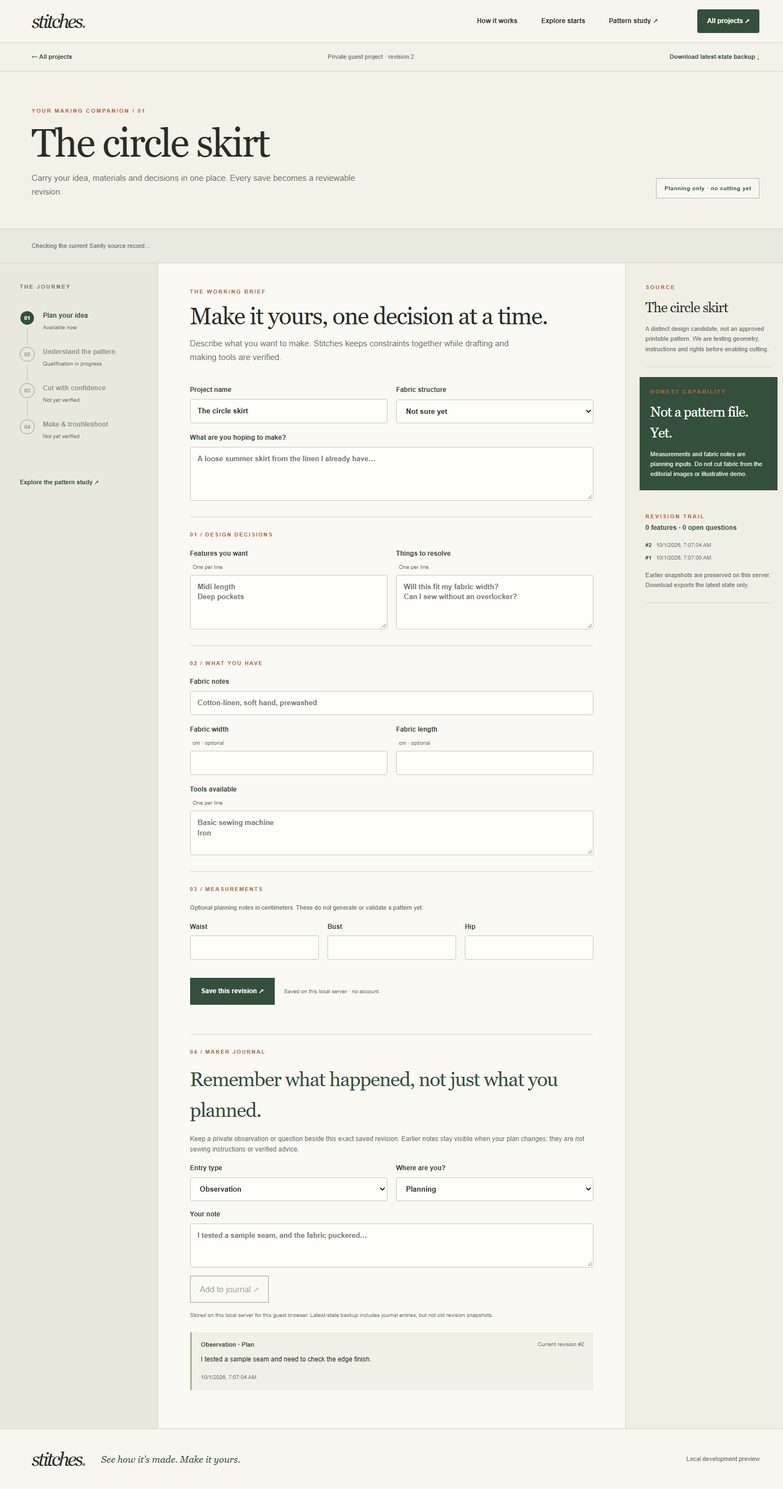
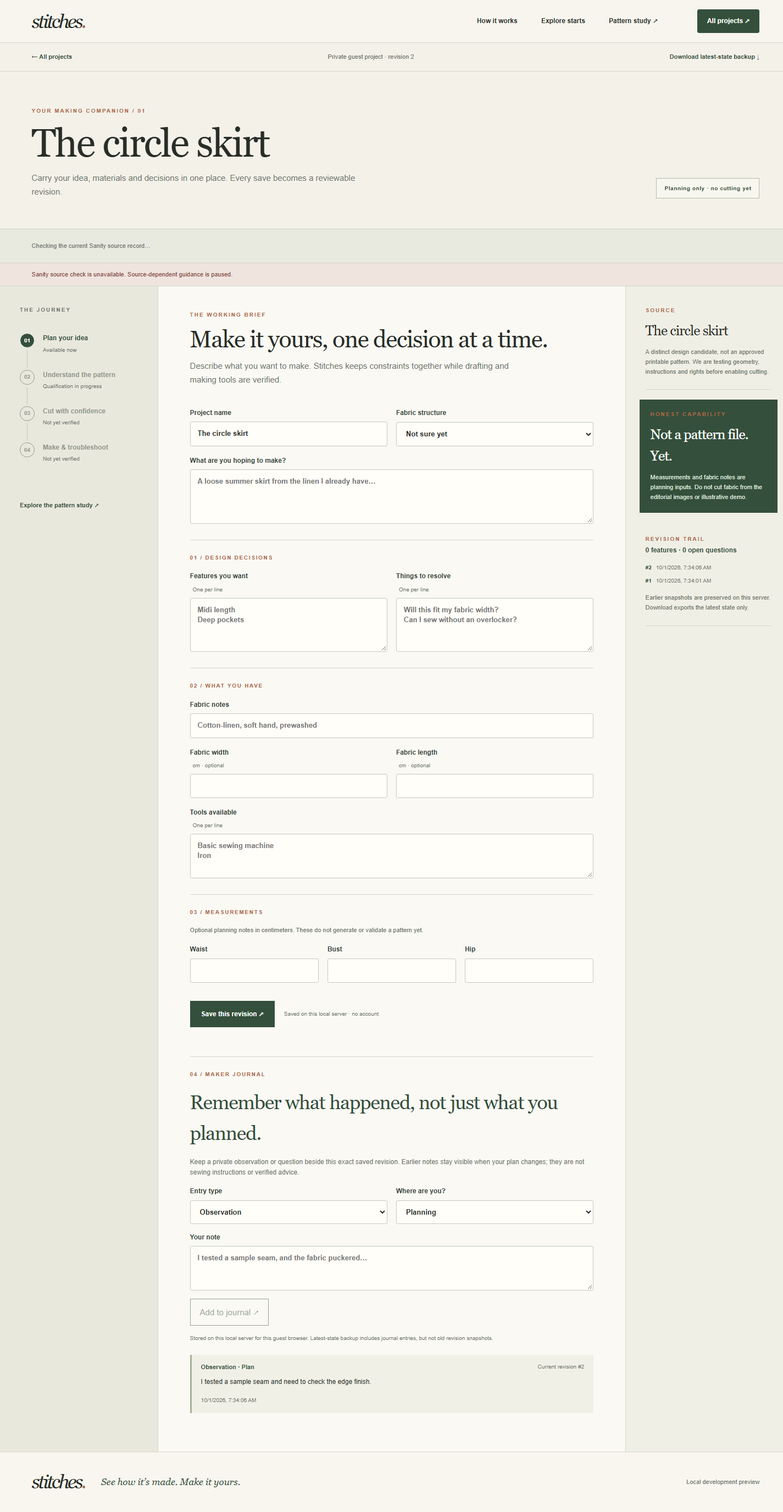
Bind guest projects to Sanity source revisions

diff --git a/src/components/studio/CompanionHome.tsx b/src/components/studio/CompanionHome.tsx
@@ -122,6 +122,7 @@ export function CompanionHome() {
   function downloadBackup() {
     if (!active) return;
     const backup = projectBackupSchema.parse({ format: "stitches-project-backup", version: 2, title: active.title, brief: active.brief, source: active.source, plan: active.plan,
+      knowledgeFingerprint: active.knowledgeFingerprint,
       notes: notes.map(({ kind, stage, text, basisSequence, basisHash, createdAt, importedFromSequence }) => ({
         kind, stage, text, basisSequence: importedFromSequence ?? basisSequence, basisHash, createdAt,
       })) });
@@ -160,15 +161,34 @@ export function CompanionHome() {
     finally { setBusy(false); }
   }
 
+  async function refreshSource() {
+    if (!active || active.source.kind !== "candidate" || !draft || busy || JSON.stringify(draft) !== JSON.stringify(draftFor(active))) return;
+    setBusy(true); setError(""); setNotice("");
+    try {
+      const data = await json(await fetch(`/api/projects/${active.id}/knowledge`, {
+        method: "POST", headers: { "Content-Type": "application/json" },
+        body: JSON.stringify({ expectedSequence: active.sequence, expectedBasisHash: active.basisHash, idempotencyKey: crypto.randomUUID() }),
+      }));
+      setActive(data.project); setDraft(draftFor(data.project));
+      if (data.project.sequence !== active.sequence) setRevisions((current) => [...current, data.project]);
+      setProjects((current) => current.map((item) => item.id === data.project.id ? data.project : item));
+      setNotice(`Source binding saved in revision ${data.project.sequence}. Earlier notes remain tied to their original basis.`);
+    } catch (cause) { setError(cause instanceof Error ? cause.message : "Could not refresh source."); }
+    finally { setBusy(false); }
+  }
+
   const unsavedChanges = !!(active && draft && JSON.stringify(draft) !== JSON.stringify(draftFor(active)));
   const sourceDesignId = active?.source.kind === "candidate" ? active.source.designId : null;
   const sourceCard = sourceDesignId ? catalog.find((item) => item.designKey === sourceDesignId) : undefined;
+  const sourceBinding = !sourceDesignId ? null : !sourceCard ? "unavailable" : !active?.knowledgeFingerprint ? "unbound" :
+    active.knowledgeFingerprint === sourceCard.fingerprint ? "current" : "stale";
   return <div className="companion-app">
     <header className="companion-nav"><a href="/" className="companion-logo" aria-label="Stitches home">stitches<span>.</span></a><nav aria-label="Main navigation"><a href="/#how-it-works">How it works</a><a href="/#collection">Explore starts</a><a href="/demo">Pattern study ↗</a></nav><button type="button" onClick={() => active ? back() : document.getElementById("collection")?.scrollIntoView({ behavior: "smooth" })} className="nav-action">{active ? "All projects" : "Start making"} ↗</button></header>
     {active && draft ? <main className="companion-project">
       <div className="project-topline"><button type="button" onClick={back}>← All projects</button><span>Private guest project · revision {active.sequence}</span><button type="button" onClick={downloadBackup}>Download latest-state backup ↓</button></div>
       <div className="project-head"><div><p className="companion-kicker">YOUR MAKING COMPANION / 01</p><h1>{active.title}</h1><p>Carry your idea, materials and decisions in one place. Every save becomes a reviewable revision.</p></div><span className="capability-chip">Planning only · no cutting yet</span></div>
-      {active.source.kind === "candidate" && <section className="project-source-strip" aria-label="Current source research">{sourceCard ? <><p className="companion-kicker">LIVE SANITY CONTENT LAKE · PLANNING SOURCE</p><strong>{sourceCard.title}</strong><p>{sourceCard.cuttingCaveat}</p><span>{sourceCard.materialStructure} · {sourceCard.requiredMeasurements.length} source-listed measurements · {sourceCard.reviewStatus} review · plan only</span><a href={sourceCard.sourceUrl} target="_blank" rel="noreferrer">Read {sourceCard.sourceTitle} ↗</a></> : <p role="status">{catalogState === "loading" ? "Checking the current Sanity source record…" : "Current Sanity source details are unavailable. Your private plan is still saved, but do not use this card to cut."}</p>}</section>}
+      {active.source.kind === "candidate" && <section className="project-source-strip" aria-label="Current source research">{sourceCard ? <><p className="companion-kicker">LIVE SANITY CONTENT LAKE · PLANNING SOURCE</p><strong>{sourceCard.title}</strong><p>{sourceBinding === "stale" ? "This source record changed after your saved project basis. Review and refresh it before using the new planning facts." : sourceCard.cuttingCaveat}</p><span>{sourceCard.materialStructure} · {sourceCard.requiredMeasurements.length} source-listed measurements · {sourceCard.reviewStatus} review · plan only</span><a href={sourceCard.sourceUrl} target="_blank" rel="noreferrer">Read {sourceCard.sourceTitle} ↗</a></> : <p role="status">{catalogState === "loading" ? "Checking the current Sanity source record…" : "Current Sanity source details are unavailable. Your private plan is still saved, but do not use this card to cut."}</p>}</section>}
+      {sourceBinding && <div className={`source-binding ${sourceBinding}`} role="status"><span>{sourceBinding === "current" ? "This plan is bound to the current Sanity source revision. It is still planning-only." : sourceBinding === "stale" ? "Source changed since this project revision. Source-dependent advice is stale; earlier maker notes are preserved." : sourceBinding === "unbound" ? "This project has no saved Sanity source binding yet. Review the current source before attaching it." : "Sanity source check is unavailable. Source-dependent guidance is paused."}</span>{(sourceBinding === "stale" || sourceBinding === "unbound") && <button type="button" disabled={busy || unsavedChanges} onClick={refreshSource}>Review & bind current source ↗</button>}{unsavedChanges && sourceBinding !== "current" && <small>Save plan edits first.</small>}</div>}
       <div className="project-workspace"><aside className="project-rail" aria-label="Project stages"><p className="rail-caption">THE JOURNEY</p><ol><li className="current"><b>01</b><span>Plan your idea<small>Available now</small></span></li><li><b>02</b><span>Understand the pattern<small>Qualification in progress</small></span></li><li><b>03</b><span>Cut with confidence<small>Not yet verified</small></span></li><li><b>04</b><span>Make & troubleshoot<small>Not yet verified</small></span></li></ol><a href="/demo">Explore the pattern study ↗</a></aside>
         <form className="project-form" onSubmit={save}><div className="form-intro"><p className="companion-kicker">THE WORKING BRIEF</p><h2>Make it yours, one decision at a time.</h2><p>Describe what you want to make. Stitches keeps constraints together while drafting and making tools are verified.</p></div>
           <div className="field-row"><label>Project name<input value={draft.title} maxLength={100} required onChange={(event) => update("title", event.target.value)} /></label><label>Fabric structure<select value={draft.structure} onChange={(event) => update("structure", event.target.value)}><option value="unknown">Not sure yet</option><option value="woven">Woven</option><option value="knit">Knit / stretch</option></select></label></div>

diff --git a/src/server/projects/guest-store.ts b/src/server/projects/guest-store.ts
@@ -8,16 +8,18 @@ import {
   importGuestProjectSchema,
   projectPlanSchema,
   recordProjectNoteSchema,
+  rebaseGuestKnowledgeSchema,
   updateGuestProjectSchema,
   type CreateGuestProjectInput,
   type GuestProject,
   type ImportGuestProjectInput,
   type ProjectNote,
   type RecordProjectNoteInput,
+  type RebaseGuestKnowledgeInput,
   type UpdateGuestProjectInput,
 } from "../../domain/guest-project";
 
-export type GuestStoreErrorCode = "not_found" | "stale" | "idempotency_conflict";
+export type GuestStoreErrorCode = "not_found" | "stale" | "idempotency_conflict" | "invalid";
 
 export class GuestStoreError extends Error {
   constructor(public readonly code: GuestStoreErrorCode, message: string) { super(message); }
@@ -177,8 +179,11 @@ export class GuestStore {
     });
   }
 
-  createProject(ownerId: string, rawInput: CreateGuestProjectInput): GuestProject {
+  createProject(ownerId: string, rawInput: CreateGuestProjectInput, trustedKnowledgeFingerprint: string | null = null): GuestProject {
     const input = createGuestProjectSchema.parse(rawInput);
+    if (input.source.kind === "own_idea" && trustedKnowledgeFingerprint !== null)
+      throw new GuestStoreError("invalid", "A personal idea cannot claim a catalog knowledge binding.");
+    if (trustedKnowledgeFingerprint !== null && !/^[a-f0-9]{64}$/.test(trustedKnowledgeFingerprint)) throw new GuestStoreError("invalid", "Invalid knowledge fingerprint.");
     const requestHash = hash(input);
     return this.transaction(() => {
       const duplicate = this.receipt(ownerId, input.idempotencyKey, "create", requestHash);
@@ -187,7 +192,7 @@ export class GuestStore {
       const base = {
         id: randomUUID(), title: input.title, brief: input.brief, source: input.source,
         plan: input.plan ?? emptyProjectPlan(), capability: "plan_only" as const, sequence: 1,
-        knowledgeFingerprint: null, createdAt: now, updatedAt: now,
+        knowledgeFingerprint: trustedKnowledgeFingerprint, createdAt: now, updatedAt: now,
       };
       const project: GuestProject = { ...base, basisHash: projectBasisHash(base) };
       const json = JSON.stringify(project);
@@ -203,6 +208,8 @@ export class GuestStore {
 
   importBackup(ownerId: string, rawInput: ImportGuestProjectInput): GuestProject {
     const input = importGuestProjectSchema.parse(rawInput);
+    if (input.backup.source.kind === "own_idea" && input.backup.version === 2 && input.backup.knowledgeFingerprint)
+      throw new GuestStoreError("invalid", "A personal idea cannot claim a catalog knowledge binding.");
     const requestHash = hash(input);
     return this.transaction(() => {
       const duplicate = this.receipt(ownerId, input.idempotencyKey, "import", requestHash);
@@ -211,7 +218,8 @@ export class GuestStore {
       const base = {
         id: randomUUID(), title: input.backup.title, brief: input.backup.brief, source: input.backup.source,
         plan: input.backup.plan, capability: "plan_only" as const, sequence: 1,
-        knowledgeFingerprint: null, createdAt: now, updatedAt: now,
+        knowledgeFingerprint: input.backup.version === 2 ? input.backup.knowledgeFingerprint ?? null : null,
+        createdAt: now, updatedAt: now,
       };
       const project: GuestProject = { ...base, basisHash: projectBasisHash(base) };
       const json = JSON.stringify(project);
@@ -266,6 +274,36 @@ export class GuestStore {
       this.db.prepare("INSERT INTO mutation_receipts (owner_id, idempotency_key, operation, target_id, request_hash, result_json) VALUES (?, ?, ?, ?, ?, ?)")
         .run(ownerId, input.idempotencyKey, "update", id, requestHash, json);
       return next;
+    });
+  }
+
+  rebaseKnowledge(ownerId: string, id: string, rawInput: RebaseGuestKnowledgeInput, trustedFingerprint: string): GuestProject {
+    const input = rebaseGuestKnowledgeSchema.parse(rawInput);
+    if (!/^[a-f0-9]{64}$/.test(trustedFingerprint)) throw new GuestStoreError("invalid", "Invalid knowledge fingerprint.");
+    const requestHash = hash({ id, input });
+    return this.transaction(() => {
+      const duplicate = this.receipt(ownerId, input.idempotencyKey, "knowledge-rebase", requestHash, id);
+      if (duplicate) return duplicate;
+      const current = this.getProject(ownerId, id);
+      if (!current) throw new GuestStoreError("not_found", "Project not found.");
+      if (current.source.kind !== "candidate") throw new GuestStoreError("invalid", "This project has no linked candidate source.");
+      if (current.sequence !== input.expectedSequence || current.basisHash !== input.expectedBasisHash)
+        throw new GuestStoreError("stale", "The project changed. Reload and review before refreshing its source.");
+      const next = current.knowledgeFingerprint === trustedFingerprint ? current : {
+        ...current, sequence: current.sequence + 1, knowledgeFingerprint: trustedFingerprint,
+        updatedAt: new Date().toISOString(),
+      };
+      const project: GuestProject = next === current ? current : { ...next, basisHash: projectBasisHash(next) };
+      const json = JSON.stringify(project);
+      if (project !== current) {
+        this.db.prepare("UPDATE projects SET sequence = ?, data_json = ?, updated_at = ? WHERE owner_id = ? AND id = ?")
+          .run(project.sequence, json, project.updatedAt, ownerId, id);
+        this.db.prepare("INSERT INTO project_revisions (owner_id, project_id, sequence, basis_hash, snapshot_json) VALUES (?, ?, ?, ?, ?)")
+          .run(ownerId, id, project.sequence, project.basisHash, json);
+      }
+      this.db.prepare("INSERT INTO mutation_receipts (owner_id, idempotency_key, operation, target_id, request_hash, result_json) VALUES (?, ?, ?, ?, ?, ?)")
+        .run(ownerId, input.idempotencyKey, "knowledge-rebase", id, requestHash, json);
+      return project;
     });
   }
 }

diff --git a/src/server/projects/guest-store.test.ts b/src/server/projects/guest-store.test.ts
@@ -123,7 +123,7 @@ describe("private guest projects", () => {
     try {
       const owner = resolveGuestIdentity().ownerId;
       const stranger = resolveGuestIdentity().ownerId;
-      const original = store.createProject(owner, create());
+      const original = store.createProject(owner, { ...create(), source: { kind: "candidate", designId: "tina" } }, "a".repeat(64));
       const early = store.recordNote(owner, original.id, { kind: "journal", stage: "prepare", text: "Sample seam finished.",
         expectedProjectSequence: 1, expectedBasisHash: original.basisHash, idempotencyKey: randomUUID() });
       const revised = store.updateProject(owner, original.id, { title: "My revised idea", expectedSequence: 1,
@@ -132,6 +132,7 @@ describe("private guest projects", () => {
         expectedProjectSequence: 2, expectedBasisHash: revised.basisHash, idempotencyKey: randomUUID() });
       const backup = projectBackupSchema.parse({ format: "stitches-project-backup", version: 2,
         title: revised.title, brief: revised.brief, source: revised.source, plan: revised.plan,
+        knowledgeFingerprint: revised.knowledgeFingerprint,
         notes: [early, current].map(({ kind, stage, text, basisSequence, basisHash, createdAt }) => ({ kind, stage, text, basisSequence, basisHash, createdAt })) });
       if (backup.version !== 2) throw new Error("Expected a v2 backup.");
       const request = { backup, idempotencyKey: randomUUID() };
@@ -139,6 +140,7 @@ describe("private guest projects", () => {
       expect(store.importBackup(owner, request)).toEqual(imported);
       expect(imported.id).not.toBe(original.id);
       expect(imported.sequence).toBe(1);
+      expect(imported.knowledgeFingerprint).toBe(revised.knowledgeFingerprint);
       const notes = store.listNotes(owner, imported.id);
       expect(notes.map((note) => note.importedFromSequence)).toEqual([1, 2]);
       expect(notes[0].basisHash).not.toBe(imported.basisHash);
@@ -175,6 +177,36 @@ describe("private guest projects", () => {
         .toThrowError(/changed/);
       expect(() => store.recordNote(owner, project.id, { ...request, text: " ", idempotencyKey: randomUUID(),
         expectedProjectSequence: changed.sequence, expectedBasisHash: changed.basisHash })).toThrow();
+    } finally { store.close(); }
+  });
+
+  it("pins source knowledge, rebases only with the saved basis, and leaves old observations stale", () => {
+    const store = new GuestStore(":memory:");
+    try {
+      const owner = resolveGuestIdentity().ownerId;
+      const other = resolveGuestIdentity().ownerId;
+      const firstFingerprint = "a".repeat(64);
+      const nextFingerprint = "b".repeat(64);
+      const createInput = { ...create(), source: { kind: "candidate" as const, designId: "sandy" as const } };
+      const first = store.createProject(owner, createInput, firstFingerprint);
+      expect(store.createProject(owner, createInput, "c".repeat(64))).toEqual(first);
+      expect(first.knowledgeFingerprint).toBe(firstFingerprint);
+      const note = store.recordNote(owner, first.id, { kind: "question", stage: "plan", text: "Which version is this?",
+        expectedProjectSequence: 1, expectedBasisHash: first.basisHash, idempotencyKey: randomUUID() });
+      const request = { expectedSequence: first.sequence, expectedBasisHash: first.basisHash, idempotencyKey: randomUUID() };
+      const second = store.rebaseKnowledge(owner, first.id, request, nextFingerprint);
+      expect(second.sequence).toBe(2);
+      expect(second.knowledgeFingerprint).toBe(nextFingerprint);
+      expect(second.basisHash).not.toBe(first.basisHash);
+      expect(store.listNotes(owner, first.id)[0]).toEqual(note);
+      expect(note.basisHash).not.toBe(second.basisHash);
+      expect(store.rebaseKnowledge(owner, first.id, request, nextFingerprint)).toEqual(second);
+      expect(store.rebaseKnowledge(owner, first.id, request, "c".repeat(64))).toEqual(second);
+      expect(() => store.rebaseKnowledge(owner, first.id, { ...request, idempotencyKey: randomUUID() }, firstFingerprint))
+        .toThrowError(/changed/);
+      expect(() => store.rebaseKnowledge(other, first.id, { ...request, idempotencyKey: randomUUID() }, nextFingerprint))
+        .toThrowError(/not found/);
+      expect(store.listRevisions(owner, first.id)).toHaveLength(2);
     } finally { store.close(); }
   });
 });

diff --git a/src/app/companion.css b/src/app/companion.css
@@ -35,3 +35,4 @@
 .catalog-evidence{max-width:1640px;margin:auto;padding:76px clamp(22px,4vw,66px);background:#e8e9df;border-top:1px solid var(--hair);display:grid;grid-template-columns:minmax(220px,.8fr) minmax(0,2fr);gap:clamp(28px,6vw,95px)}.catalog-evidence h2{font-size:clamp(35px,4vw,58px);margin:14px 0}.catalog-evidence>div:first-child>p:last-child{color:var(--muted);line-height:1.6;font-size:13px;max-width:390px}.catalog-evidence-grid{display:grid;grid-template-columns:repeat(2,minmax(0,1fr));gap:18px}.catalog-evidence-grid article{padding:25px;background:#f8f7f1;border:1px solid #d7d8cd;min-width:0}.catalog-evidence-grid article>span{color:var(--rust);text-transform:uppercase;letter-spacing:.12em;font-size:10px;font-weight:700}.catalog-evidence-grid h3{font-size:29px;margin:15px 0}.catalog-evidence-grid p{font-size:12px;line-height:1.65;color:var(--muted)}.catalog-evidence-grid small{display:block;font-size:10px;color:var(--muted);margin:16px 0}.catalog-evidence-grid a{font-size:11px;font-weight:700;color:var(--pine);text-decoration:underline;text-underline-offset:4px}.catalog-unavailable{align-self:center;padding:24px;border-left:3px solid var(--rust);background:#f8f7f1;font-size:13px;line-height:1.6}.project-source-strip{padding:22px clamp(22px,4vw,66px);background:#e8e9df;border-top:1px solid var(--hair);display:grid;grid-template-columns:minmax(150px,1fr) minmax(210px,2fr) minmax(220px,3fr) auto;gap:15px 25px;align-items:center}.project-source-strip .companion-kicker{grid-column:1/-1;margin:0}.project-source-strip strong{font-family:Georgia,'Times New Roman',serif;font-size:22px;font-weight:400}.project-source-strip p:not(.companion-kicker){color:var(--muted);font-size:11px;line-height:1.55;margin:0}.project-source-strip span{color:var(--pine);font-size:10px;font-weight:700;line-height:1.5}.project-source-strip a{color:var(--pine);font-size:11px;font-weight:700;text-decoration:underline;text-underline-offset:4px}.project-source-strip>p[role=status]{grid-column:1/-1}
 @media(max-width:900px){.catalog-evidence{grid-template-columns:1fr}.project-source-strip{grid-template-columns:repeat(2,minmax(0,1fr))}.project-source-strip p:not(.companion-kicker){grid-column:1/-1}}
 @media(max-width:600px){.catalog-evidence{padding:48px 22px}.catalog-evidence-grid{grid-template-columns:1fr}.project-source-strip{grid-template-columns:1fr}.project-source-strip p:not(.companion-kicker){grid-column:auto}}
+.source-binding{padding:12px clamp(22px,4vw,66px);display:flex;align-items:center;gap:14px;flex-wrap:wrap;font-size:11px;line-height:1.5;border-top:1px solid #d0d4c7}.source-binding.current{background:#e6eee3;color:#2b5035}.source-binding.stale,.source-binding.unbound{background:#f4e9d9;color:#74512f}.source-binding.unavailable{background:#f0e4df;color:#7f4538}.source-binding span{flex:1 1 260px}.source-binding button{border:1px solid currentColor;background:transparent;color:inherit;padding:8px 12px;font-size:10px;font-weight:700}.source-binding button:disabled{opacity:.5;cursor:not-allowed}.source-binding small{font-size:10px}

diff --git a/src/domain/guest-project.ts b/src/domain/guest-project.ts
@@ -46,7 +46,8 @@ const backupNoteSchema = z.object({
 }).strict();
 export const projectBackupSchema = z.discriminatedUnion("version", [
   projectBackupBaseSchema.extend({ version: z.literal(1) }).strict(),
-  projectBackupBaseSchema.extend({ version: z.literal(2), notes: z.array(backupNoteSchema).max(2000) }).strict(),
+  projectBackupBaseSchema.extend({ version: z.literal(2), notes: z.array(backupNoteSchema).max(2000),
+    knowledgeFingerprint: z.string().regex(/^[a-f0-9]{64}$/).nullable().optional() }).strict(),
 ]);
 export const importGuestProjectSchema = z.object({
   backup: projectBackupSchema,
@@ -58,6 +59,12 @@ export const recordProjectNoteSchema = z.object({
   stage: z.enum(["plan", "prepare", "make", "check"]),
   text: z.string().trim().min(1).max(1000),
   expectedProjectSequence: z.number().int().min(1),
+  expectedBasisHash: z.string().regex(/^[a-f0-9]{64}$/),
+  idempotencyKey: z.string().uuid(),
+}).strict();
+
+export const rebaseGuestKnowledgeSchema = z.object({
+  expectedSequence: z.number().int().min(1),
   expectedBasisHash: z.string().regex(/^[a-f0-9]{64}$/),
   idempotencyKey: z.string().uuid(),
 }).strict();
@@ -78,6 +85,7 @@ export type CreateGuestProjectInput = z.infer<typeof createGuestProjectSchema>;
 export type UpdateGuestProjectInput = z.infer<typeof updateGuestProjectSchema>;
 export type RecordProjectNoteInput = z.infer<typeof recordProjectNoteSchema>;
 export type ImportGuestProjectInput = z.infer<typeof importGuestProjectSchema>;
+export type RebaseGuestKnowledgeInput = z.infer<typeof rebaseGuestKnowledgeSchema>;
 
 export interface ProjectNote {
   id: string;
@@ -100,7 +108,7 @@ export interface GuestProject {
   capability: "plan_only";
   sequence: number;
   basisHash: string;
-  knowledgeFingerprint: null;
+  knowledgeFingerprint: string | null;
   createdAt: string;
   updatedAt: string;
 }

diff --git a/src/app/api/projects/[id]/knowledge/route.ts b/src/app/api/projects/[id]/knowledge/route.ts
@@ -1,0 +1,27 @@
+import { NextRequest, NextResponse } from "next/server";
+import { rebaseGuestKnowledgeSchema } from "@/domain/guest-project";
+import { createCompanionCatalogClient, loadCompanionCatalog } from "@/server/knowledge/companion-catalog";
+import { GuestStoreError, getLocalGuestStore } from "@/server/projects/guest-store";
+import { assertSameOriginJson, guestErrorResponse, guestForRequest, guestResponse } from "@/server/projects/guest-http";
+
+export const runtime = "nodejs";
+export const dynamic = "force-dynamic";
+
+export async function POST(request: NextRequest, context: { params: Promise<{ id: string }> }) {
+  try {
+    assertSameOriginJson(request);
+    const identity = guestForRequest(request);
+    const { id } = await context.params;
+    const input = rebaseGuestKnowledgeSchema.parse(await request.json());
+    const store = getLocalGuestStore();
+    const current = store.getProject(identity.ownerId, id);
+    if (!current) throw new GuestStoreError("not_found", "Project not found.");
+    if (current.source.kind !== "candidate") throw new GuestStoreError("invalid", "This project has no linked candidate source.");
+    const designId = current.source.designId;
+    const cards = await loadCompanionCatalog(createCompanionCatalogClient());
+    const fingerprint = cards.find((item) => item.designKey === designId)?.fingerprint;
+    if (!fingerprint) return NextResponse.json({ error: "source_unavailable", message: "The source record is unavailable; no project change was made." }, { status: 503 });
+    const project = store.rebaseKnowledge(identity.ownerId, id, input, fingerprint);
+    return guestResponse(request, identity, { project });
+  } catch (error) { return guestErrorResponse(error); }
+}

diff --git a/src/app/api/projects/route.ts b/src/app/api/projects/route.ts
@@ -1,5 +1,7 @@
 import { NextRequest, NextResponse } from "next/server";
 import { getLocalGuestStore } from "@/server/projects/guest-store";
+import { createGuestProjectSchema } from "@/domain/guest-project";
+import { createCompanionCatalogClient, loadCompanionCatalog } from "@/server/knowledge/companion-catalog";
 import { assertSameOriginJson, guestErrorResponse, guestForRequest, guestResponse } from "@/server/projects/guest-http";
 
 export const runtime = "nodejs";
@@ -18,7 +20,16 @@ export async function POST(request: NextRequest) {
   try {
     assertSameOriginJson(request);
     const identity = guestForRequest(request);
-    const project = getLocalGuestStore().createProject(identity.ownerId, await request.json());
+    const input = createGuestProjectSchema.parse(await request.json());
+    let fingerprint: string | null = null;
+    if (input.source.kind === "candidate") {
+      const designId = input.source.designId;
+      try {
+        const cards = await loadCompanionCatalog(createCompanionCatalogClient());
+        fingerprint = cards.find((item) => item.designKey === designId)?.fingerprint ?? null;
+      } catch { /* A planning-only project may start unbound; source advice stays unavailable. */ }
+    }
+    const project = getLocalGuestStore().createProject(identity.ownerId, input, fingerprint);
     return guestResponse(request, identity, { project }, 201);
   } catch (error) {
     return guestErrorResponse(error);

diff --git a/src/server/projects/guest-http.ts b/src/server/projects/guest-http.ts
@@ -35,7 +35,7 @@ export function guestErrorResponse(error: unknown): NextResponse {
     return NextResponse.json({ error: "invalid_input", message: "Review the project fields and try again." }, { status: 400 });
   }
   if (error instanceof GuestStoreError) {
-    const status = error.code === "not_found" ? 404 : 409;
+    const status = error.code === "not_found" ? 404 : error.code === "invalid" ? 400 : 409;
     return NextResponse.json({ error: error.code, message: error.message }, { status });
   }
   console.error("Guest project request failed", error);

diff --git a/docs/STATUS.md b/docs/STATUS.md
@@ -4,13 +4,15 @@ Updated: October 1, 2026.
 
 ## Active W03 source-linked planning catalog — October 1, 2026
 
+- Follow-on source-binding slice: new candidate projects receive the exact Content Lake card fingerprint when available; guest backups preserve it; stale/unbound projects show an explicit state and require a basis-checked, idempotent source rebase. The rebase is a new immutable project revision and leaves prior journal entries attached to their old basis. If Sanity is unavailable, a plan-only project can still start unbound; no source-dependent advice is authorized. An initial test incorrectly expected an old note to match a changed knowledge fingerprint and was corrected. A route review then caught and fixed an eager stale check that would have defeated idempotent replay. Final full deterministic suite passed **58/58** with one opt-in live test skipped (195s on this Windows run); `tsc --noEmit` and the corrected Webpack production build exited 0.
+- Built API rehearsal passed candidate create with current fingerprint (201), import of a deliberately old fingerprint (201), explicit rebase/replay (200), stale new request (409), cross-guest denial (404), plus the prior guest/journal/backup checks. The final Chrome run observed the stale warning, clicked review/rebind, and observed revision 2 current binding; five widths passed with no overflow/broken images/runtime errors. Seven actual captures include desktop stale and recovered states plus phone; the before/after and phone images were visually inspected. Reports are `evidence/guest-api-verification.json` and `evidence/companion-runtime-verification.json`. This is a **local deliberate old-backup rehearsal**, not a claim that a live Sanity editorial correction happened in this slice.
+
 - Rechecked the official Sandy and Tina design pages, including required measurements and cutting/fabric differences. A bounded `npm view @freesewing/sandy` retry again produced no registry response and was cancelled after roughly 50 seconds; this does **not** qualify a drafting engine or output rights.
 - Added a distinct `planningCandidate` Sanity schema type so research candidates cannot be confused with a qualified `patternVersion`. A guarded seeder dry-ran four exact IDs, found zero collisions, then created two source records and two candidate records in **Stitches `l4eeamth/development` only**. Published Content Lake read-back verified all four with `reviewStatus: pending`. `evidence/companion-candidates-sanity.json` contains IDs/revisions, no credentials. Existing 13 illustrative records were not overwritten; no production dataset write or KB rebuild occurred.
 - Added a fixed, parameterized Content Lake catalog reader and `/api/catalog`. It validates both source/candidate pairs, rejects missing, duplicated, dangling or rejected documents, and returns plan-only metadata/fingerprints. The main companion now shows current source-linked planning caveats and an explicit unavailable state, while private project entry remains possible. It does not treat editorial photos as pattern evidence or pretend this exact read is a Context KB response.
-- The source catalog is read fresh and is **not yet pinned to a guest project's saved knowledge fingerprint**. Changes to these source records therefore must not be interpreted as automatically rebasing earlier journal evidence or approving new advice.
 - Focused catalog tests passed 3/3; full deterministic suite passed **57/57** with one opt-in live test skipped; `tsc --noEmit` exited 0 after a source-union narrowing fix. Final Webpack production build exited 0 with `/api/catalog`. The built API returned 200 and exactly two pending, plan-only cards from the development Content Lake; guest API outcomes still passed. The isolated Chrome run passed 1440/1024/768/390/320px, live source display, guest create/save/journal/reload/backup/import, no overflow/broken images/runtime errors. Refreshed desktop gallery and phone home/project screenshots were visually inspected. Reports: `evidence/guest-api-verification.json` and `evidence/companion-runtime-verification.json`.
 
-**Next executable task:** pin the Sanity candidate fingerprint to the saved guest project and invalidate source-dependent advice on change; then implement a sourced, reviewed shared method/diagnostic graph and separately verify Context KB maintenance. Plan-only records do not satisfy W03 exit.
+**Next executable task:** implement one source-reviewed shared procedure/diagnostic graph with step applicability, then separately verify its exact Content Lake state and served Context KB maintenance. The current plan-only candidate records do not satisfy W03 exit, and W01 engine/rights/physical checks remain open.
 
 ## Active W02 journal and portable backup slice — October 1, 2026
 

diff --git a/BUILD_LOG.md b/BUILD_LOG.md
@@ -2,6 +2,10 @@
 
 ## October 1, 2026 — W03 pending-review Sanity planning-source slice
 
+- Follow-on source-binding work: candidate creation captures trusted Content Lake fingerprint when accessible; v2 backup retains it; a separate owner-scoped, optimistic/idempotent source-rebase route creates a new revision, preserving older notes as old-basis evidence. UI shows current/stale/unbound/unavailable states. `tsc --noEmit` passed; final full Vitest **58/58** passed with one opt-in live test skipped (195s, heavy import time). First focused run had one test expectation error: it assumed a note's content basis would match after changing the imported source fingerprint. Fixed the test to retain the original fingerprint; focused rerun passed. Final corrected Webpack production build exited 0.
+- Review before the final build caught a genuine HTTP replay-order defect: the route's eager stale check would reject an exact successful retry before the store could return its idempotency receipt. Removed that precheck and made receipt identity independent of the external source fingerprint; the store still enforces basis freshness for new request keys. Focused test now covers a replay after the source fingerprint changes. A prematurely started build was cancelled before completion and does not count as a pass.
+- Final built API rehearsal: Content Lake catalog 200; candidate create bound to current fingerprint 201; deliberately stale backup imported 201; explicit rebase and exact replay 200; new stale rebase 409; cross-guest rebase 404; earlier journal/backup cases still pass. Isolated Chrome observed stale binding then current revision 2 after review/rebind; 1440/1024/768/390/320px layout and full private-project journey passed with no overflow, broken images or runtime exceptions. Seven screenshots include actual stale/recovered desktop states; those and the phone view were inspected. This is a disposable **old-backup** recovery, not a live Sanity source correction or Context refresh.
+
 - Source: official FreeSewing Sandy and Tina documentation rechecked; only paraphrased source-linked planning facts were authored. The `npm view` retry was stopped after about 50 seconds without a response. No engine/version/rights or physical gate was upgraded.
 - Added `planningCandidate` schema; guard-checked four exact document IDs. Seeder dry-run against `l4eeamth/development` found zero existing collisions; `--apply` created two `sourceDocument` and two `planningCandidate` records in that dataset, all pending review. Published read-back verified four records and saved ID/revision evidence in `evidence/companion-candidates-sanity.json`. The 13 prior illustrative records and production dataset were untouched. No Context KB build/refresh or Gemini call.
 - Added fixed-query catalog resolver, failure state and main-app source evidence panel. Focused Vitest 3/3 and full Vitest 57/57 passed, one opt-in live test skipped. `tsc --noEmit` passed after fixing TypeScript narrowing in the client. Final Webpack production build exited 0. Built `/api/catalog` returned 200 with two pending, plan-only Content Lake cards; guest API rehearsal passed. Isolated Chrome passed five widths and displayed the live Sandy source on the project, while preserving the guest journey and backup import, with zero overflow/broken images/runtime exceptions. Refreshed desktop gallery and phone screenshots were inspected. Evidence JSON and captures are under `evidence/`.

diff --git a/devpost/checklist.md b/devpost/checklist.md
@@ -37,7 +37,7 @@ Exit: two distinct source-qualified candidates and one fully mapped vertical jou
 Exit: two sessions cannot cross-read; actual project resumes after restart; stale/duplicate transitions deterministic.
 
 ## W03 — Sanity intelligence graph
-- Verified partial: four source-linked, pending-review planning records in `l4eeamth/development` are read by the companion through an exact Content Lake catalog API. This is not a reviewed procedure/diagnostic graph or a served Context KB update.
+- Verified partial: four source-linked, pending-review planning records in `l4eeamth/development` are read by the companion through an exact Content Lake catalog API. Candidate guest projects pin its fingerprint; an old binding is visibly stale and can be refreshed into a new revision without rewriting prior notes. This is not a reviewed procedure/diagnostic graph or a served Context KB update.
 - [ ] Extend existing schema with components, technique, equipment/fabric classes, procedures, issue patterns, diagnostic tests and remedies; preserve current pattern/step refs.
 - [ ] Seed only qualified shared facts into project l4eeamth/development after dry-run exact IDs, backups, revision guards and complete graph validation.
 - [ ] Maintain separate fixed exact Content Lake reads and actual KB-only Context; no private maker data in Sanity.

diff --git a/docs/DECISIONS.md b/docs/DECISIONS.md
@@ -2,6 +2,8 @@
 
 ## October 1, 2026 — Separate Sanity planning candidates from qualified patterns
 
+- A guest project may pin the exact candidate Content Lake fingerprint at creation or through an explicit source-rebase mutation. New source facts never silently rewrite an old project basis or journal note. If the source changes, the UI marks the binding stale; rebase requires the saved sequence/hash and creates a new revision. Sanity outage permits an unbound private plan, not source-backed advice.
+
 - `planningCandidate` is a dedicated shared editorial type with `reviewStatus: pending`, official-source reference, measurement names and a conditional cutting caveat. It grants only `plan_only` and cannot stand in for `patternVersion`, generated geometry, print or maker review.
 - The main companion reads these four known records through a fixed server-side Content Lake query, never a model-supplied GROQ string. Missing/rejected/inconsistent records produce an explicit unavailable state. Private guest plans and journal remain local and do not enter Sanity.
 - The development write used `createIfNotExists` after a zero-collision dry run and read-back; no existing record was replaced. Sanity Context KB remains separately maintained and was not rebuilt by this Content Lake operation.
